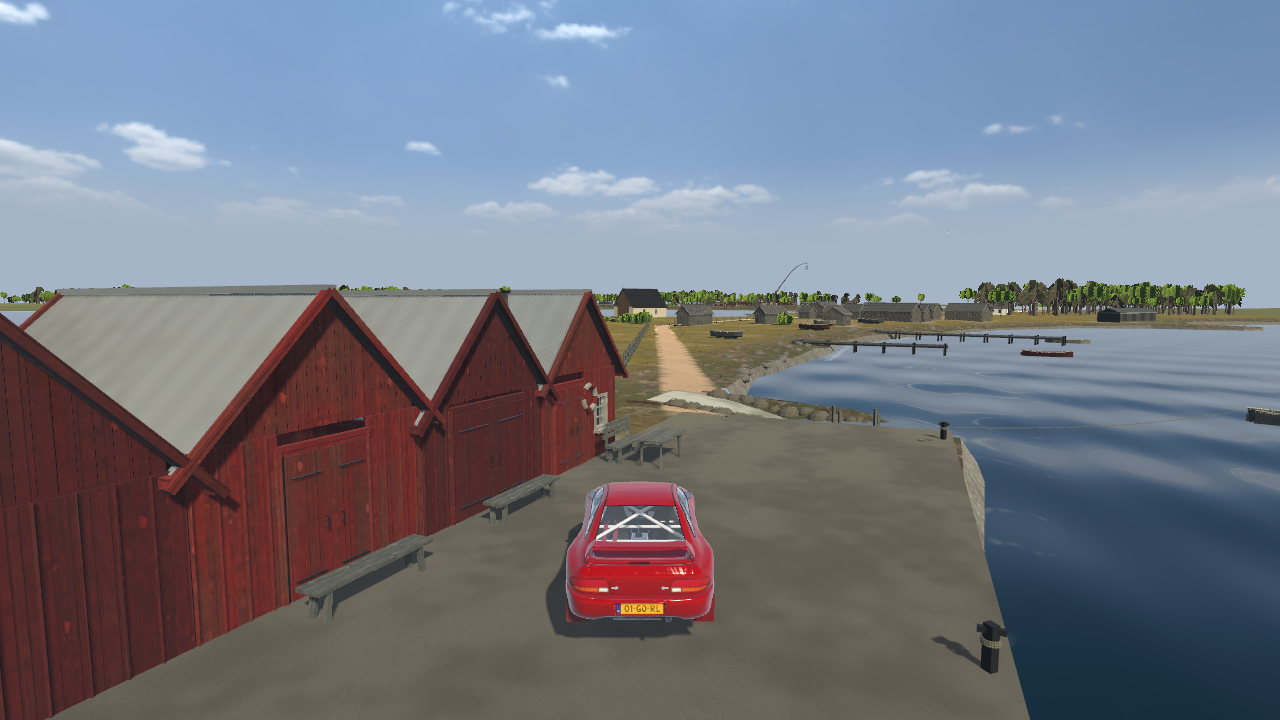
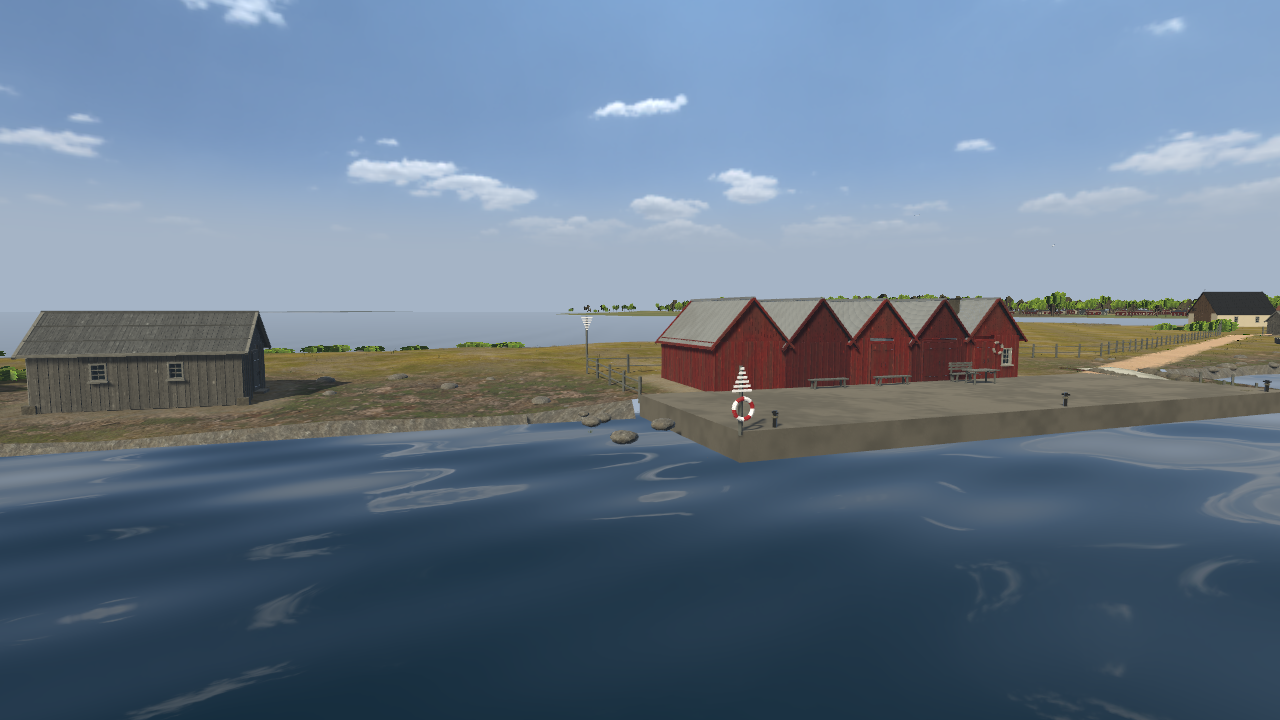
Update v0.1.5 distribution for macOS.27 Kovik harbour scenery

diff --git a/index.html b/index.html
@@ -37,7 +37,7 @@
     </nav>
     <footer>
       <p>Actual game footage and sound from the v0.1.5 world · 29 October 2026.</p>
-      <p>Download v0.1.5 for Windows 10, Windows 11 and Apple Silicon macOS, with improved Gotland house roofs, the repaired Hemse church tower, and the Visby–Kovik Quay tour.</p>
+      <p>Download v0.1.5 for Windows 10, Windows 11 and Apple Silicon macOS, with the macOS.27 Kovik harbour improvements, improved Gotland house roofs, the repaired Hemse church tower, and the Visby–Kovik Quay tour.</p>
     </footer>
   </main>
 </body>

diff --git a/README.md b/README.md
@@ -12,7 +12,7 @@ This public repository contains player documentation, screenshots, a trailer and
 
 <table>
   <tr>
-    <td width="50%"><a href="images/kovik.png"><img src="images/kovik.png" alt="The Impreza arriving on Kovik’s concrete quay beside the red boathouses" width="100%"></a><br><strong>Kovik Quay</strong></td>
+    <td width="50%"><a href="images/kovik.png"><img src="images/kovik.png" alt="Kovik’s concrete quay, red boathouses, white channel markers and lifebuoy" width="100%"></a><br><strong>Kovik Quay</strong></td>
     <td width="50%"><a href="images/visby.png"><img src="images/visby.png" alt="Visby Cathedral and the surrounding old town" width="100%"></a><br><strong>Visby Domkyrka</strong></td>
   </tr>
   <tr>
@@ -27,7 +27,7 @@ This public repository contains player documentation, screenshots, a trailer and
 
 ## Trailer
 
-[Watch the Impreza trailer](https://mannetroll.github.io/gotlandgame/) with sound, directly in your browser on iPhone or desktop. Real 1080p game footage features roadside drive-bys at Kovik and Sanda, a close tracking shot, Kovik’s red huts and concrete quay, and the sea at Tofta. Recorded in the released v0.1.5 world on macOS on 29 October 2026, with the car’s engine and coastal ambience. These locations and the Impreza are included in the current release.
+[Watch the Impreza trailer](https://mannetroll.github.io/gotlandgame/) with sound, directly in your browser on iPhone or desktop. Real 1080p game footage features roadside drive-bys at Kovik and Sanda, a close tracking shot, Kovik’s red huts and concrete quay, and the sea at Tofta. Recorded in the v0.1.5 world on macOS on 29 October 2026, with the car’s engine and coastal ambience. These locations and the Impreza are included in the current release.
 
 **Points of interest (POIs) on the G map**
 
@@ -46,7 +46,7 @@ Counts refer to map entries; some locations have more than one entry.
 
 ## Downloads
 
-**v0.1.5 brings the `orto.8` scenery improvements to macOS and Windows.**
+**v0.1.5 now includes the `macOS.27` Kovik harbour improvements on macOS, Windows 10 and Windows 11.**
 
 Download **every file for your platform** into the same folder and keep their names unchanged. GitHub's per-file limit requires multiple parts; the disk image or installer reads them together.
 
@@ -61,8 +61,8 @@ Use the named game files under **Releases → Assets**. GitHub's automatic **Sou
 
 | Package | Complete download | Installed size |
 |---|---:|---:|
-| macOS Apple Silicon | 5.151 GB | 5.511 GB |
-| Windows x64 | 5.134 GB | 5.561 GB |
+| macOS Apple Silicon | 5.150 GB | 5.513 GB |
+| Windows x64 | 5.135 GB | 5.563 GB |
 
 Sizes use decimal GB. When downloading an update, replace **all parts**
 for that platform together; do not mix old and new files.
@@ -72,7 +72,8 @@ for that platform together; do not mix old and new files.
 - Improved residential roof outlines and heights across Gotland, using mapped outlines and laser measurements where supported.
 - Corrected Hemse church's tower and spire connection.
 - Removed obsolete roof-edge strips, including the hanging lines seen around Valbyte.
-- Runne and Kovik retain their approved scenery. Unsupported measurements and complex buildings retain their existing models.
+- Kovik has a continuous concrete quay face, clear car access, completed village fences, bright white channel markers and a lifebuoy. Stray shoreline geometry and the straight foam line beside the quay are removed.
+- Unsupported measurements and complex buildings retain their existing models.
 - Small additional scenery footprint, with no new roof textures.
 
 ## Touring features

diff --git a/INSTALL.md b/INSTALL.md
@@ -1,6 +1,6 @@
 # Install Gotland World
 
-Download the files for your platform from the [download release](https://github.com/mannetroll/gotlandgame/releases/latest). Both platforms are v0.1.5, built from orto.8, with compact terrain storage. Keep all parts in one folder and retain their exact names. Allow at least 18 GB free while downloading and installing. The installed macOS app uses approximately 5.511 GB; Windows uses approximately 5.561 GB.
+Download the files for your platform from the [download release](https://github.com/mannetroll/gotlandgame/releases/latest). Both platforms are v0.1.5, built from macOS.27, with compact terrain storage. Keep all parts in one folder and retain their exact names. Allow at least 18 GB free while downloading and installing. The installed macOS app uses approximately 5.513 GB; Windows uses approximately 5.563 GB.
 
 ## macOS — Apple Silicon
 
